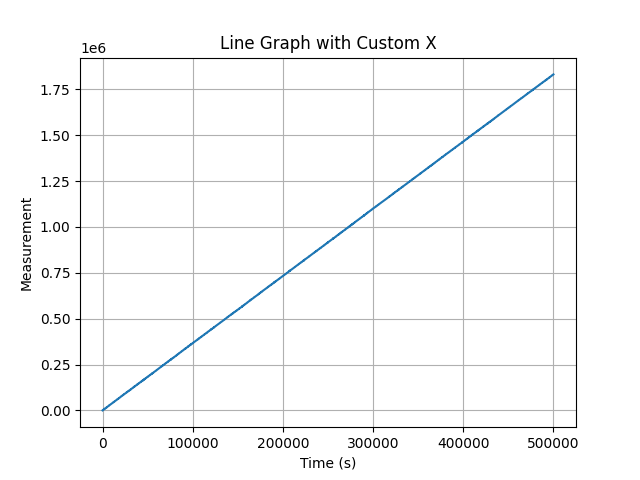
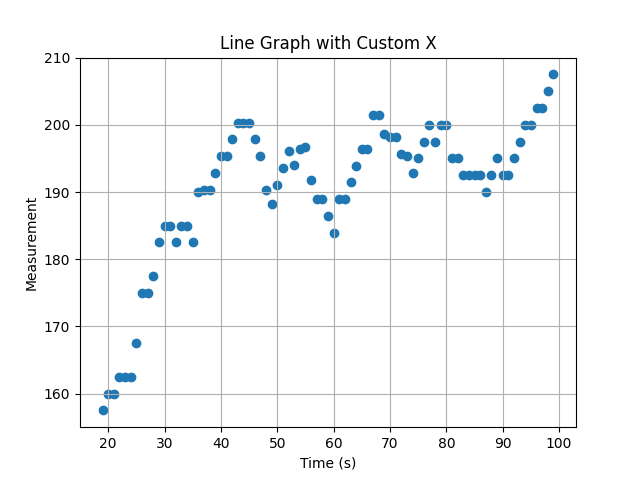
Methodology

diff --git a/Experiments/SimpleNetworkDelay.py b/Experiments/SimpleNetworkDelay.py
@@ -2,9 +2,10 @@ import networkx as nx
 import random
 import simpy
 import matplotlib.pyplot as plt
+import pandas as pd
 
-link_delay = 20
-c = 3
+link_delay = 50
+c = 5
 
 env = simpy.Environment()
 topology_file = "/home/ryhime/Desktop/gnnet-ch21-dataset-test/ch21-test-setting-1/50/graphs/graph-50-0-1.txt"
@@ -32,12 +33,12 @@ def send_packet(env, graph, src, dest, delays):
     delays.append(total_queueing)
 
 
-def run_simulation(num_packets=500000):
+def run_simulation(num_packets=100):
     results = []
 
     def packet_generator():
         for _ in range(num_packets):
-            env.process(send_packet(env, G, 3, 48, results))
+            env.process(send_packet(env, G, random.randint(0, 20), random.randint(21, 40), results))
             interarrival = random.expovariate(1/3.0)
             yield env.timeout(interarrival)
 
@@ -46,8 +47,12 @@ def run_simulation(num_packets=500000):
     return results
 
 delays = run_simulation()
+# Smooths the series by getting the mean
+# NOTE: IDK if should take this out or have it be part of the model?
+series = pd.Series(delays)
+delays = series.rolling(window=20).mean()
 
-plt.plot(range(len(delays)), delays)
+plt.scatter(range(len(delays)), delays)
 plt.title("Line Graph with Custom X")
 plt.xlabel("Time (s)")
 plt.ylabel("Measurement")

diff --git a/Experiments/Ideas.md b/Experiments/Ideas.md
@@ -21,11 +21,11 @@ https://networkrepository.com/temporal-networks.php
 4 - Use that feed back as a reinforcement loss for routing configuration
 
 
-Things to consider:
-Would need to train the STGNN predicting jitter, average delay, delay per node before hand since it is predicting at the next time point
-How would I then change the routing configuration? Would it be a transformer GNN?
-Time complexity of the system
-Maybe consider a GAN approach? - Instead of sending packets randomly use a GNN "attacker"
+# Things to consider:
+- Would need to train the STGNN predicting jitter, average delay, delay per node before hand since it is predicting at the next time point
+- How would I then change the routing configuration? Would it be a transformer GNN?
+- Time complexity of the system
+- Test training the STGNN on a different topology and applying it to a different one as well as applying it to the same it was trained on
 
 
 Some metrics - queue length, average delay, delay per node
@@ -35,3 +35,5 @@ Compare it with things like a DNN, LSTM
 # Simulation Ideas
 - Can get fancy like having some users have heavy loads all at once, some downloading files, etc.
 - Can also have QoS requirements which I think are already in Internet Topology Zoo
+- To get the average network metrics can use ARMA (Can also use ARMA-Conv for predictions then)
+- ARMA CONV IS PERFECT FOR THIS SCENARIO ALSO TRY WITH DIFFERENT GNNS THOUGH

diff --git a/Papers/Before_Summer/Papers.md b/Papers/Before_Summer/Papers.md
@@ -44,6 +44,25 @@ arxiv.org/abs/2212.12070
 - Scales well to large networks (attribute of GNNs in general) but error still increases a little when increasing network size
 - Use RouteNet-Fermi on actual live data gets an even lower error rate
 
+# Research on the Application of Deep Reinforcement Learning in SDN Routing Optimization
+https://link.springer.com/chapter/10.1007/978-981-96-4963-1_21
+
+- Uses deep Q network reinforcement learning to optimize routing strategies
+  - Does not elaborate on specifics though
+- Use randomly generated data on a topology
+- Figure 3 shows a comparison between OSPF and Least Load Routing Algorithms
+
+# A Performance Prediction Method Based on Multi-task Spatio-Temporal Convolution Network for SDN Heterogeneous Network
+https://link.springer.com/chapter/10.1007/978-981-96-0313-8_20#Abs1
+
+- Uses a STGNN to predict future link performance
+- Uses a single topology for testing - STGNN outperforms LSTM and Bi-LSTM by a large margin (by ~35%)
+- Good starting point
+- Downsides/Places to Improve:
+  - Does not test against a lot of baselines (like base GNN)
+  - Does not use up to date STGNN for both the spatio (GCN) and temporal (gated convolution) components
+  - Only uses one topology
+
 
 # Building a Digital Twin for network optimization using Graph Neural Networks
 https://www.sciencedirect.com/science/article/pii/S1389128622003681

diff --git a/Methodology/Simulation.md b/Methodology/Simulation.md
@@ -1,0 +1,22 @@
+# Topology
+- Can use Internet Topology Zoo each node has a queue size and queue policy (like FIFO)
+- Make sure to use multiple topologies instead of just one
+
+
+# Generating Artifical Network Traffic
+- Two things to consider:
+  - How often to send a packet through the network
+  - Where to send the packet (src, dest)
+- Can use different distributions like normal
+- Can use random
+- Have nodes simulate different network use types like large file transfer, internet gaming (lots of small packets), and random light load of packets
+- Should ideally test all of those
+
+# Simulating Delays
+- Want to capture the following delays:
+  - Processing, Queueing, Transmission, and Propagation Delay
+  - The associated delays can also be used as features on the Metric Prediction module
+
+# Measurements
+- Average Throughput Delay
+- NEED MORE..... 
